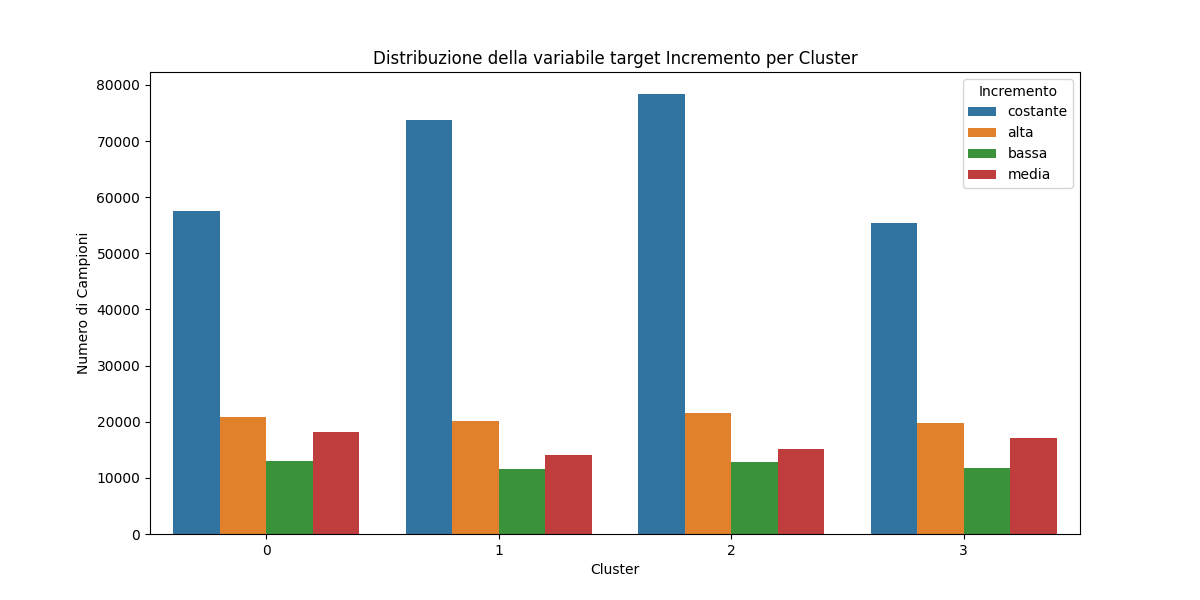
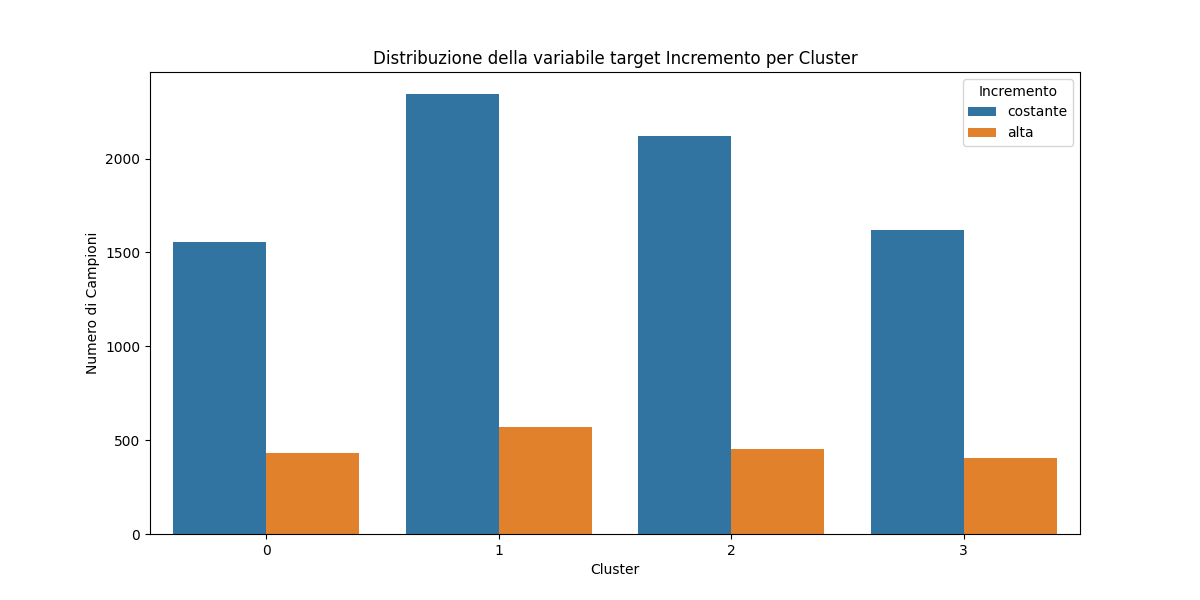
Normalizzazione dell'indice di Silhouette

diff --git a/clustering/clustering_metrics.py b/clustering/clustering_metrics.py
@@ -1,20 +1,33 @@
 import os
 from matplotlib import pyplot as plt
 import seaborn as sns
-from sklearn.metrics import silhouette_score
+from sklearn.metrics import silhouette_score, silhouette_samples
+import numpy as np
 
 
 def compute_silhouette_score(encoded_features, labels):
     """
-    Calcola e restituisce il Silhouette Score per il clustering effettuato.
+    Calcola e restituisce il Silhouette Score per il clustering effettuato,
+    normalizzato nel range [0, 1].
 
     :param encoded_features: Array di feature codificate (input del clustering)
     :param labels: Etichette dei cluster generate dal modello K-Means
-    :return: Valore del Silhouette Score
+    :return: Valore normalizzato del Silhouette Score
     """
-    score = silhouette_score(encoded_features, labels)
-    print(f"Silhouette Score: {score}")
-    return score
+    # Calcola i valori del silhouette per ciascun campione
+    silhouette_values = silhouette_samples(encoded_features, labels)
+
+    # Normalizza i valori del silhouette nel range [0, 1]
+    normalized_silhouette_values = (silhouette_values - silhouette_values.min()) / (
+                silhouette_values.max() - silhouette_values.min())
+
+    # Calcola il silhouette score medio normalizzato
+    normalized_silhouette_score = np.mean(normalized_silhouette_values)
+
+    print(f"Silhouette Score normalizzato: {normalized_silhouette_score}")
+
+    return normalized_silhouette_score
+
 
 def compute_purity(df, target_column):
     """
@@ -86,8 +99,10 @@ def compute_all_metrics(df, encoded_features, labels):
     # calcolo la purezza di ogni cluster e la purezza media del clustering
     print("\nCalcolo della purezza di ciascun cluster e della purezza complessiva:")
     cluster_purity, overall_purity = compute_purity(df, 'incremento')
+
+    print("\nCalcolo dell'indice di Silhouette... Attendi...:")
     score = compute_silhouette_score(encoded_features,labels)
 
-    return cluster_purity, overall_purity, score
+    return cluster_purity, overall_purity
 
 

diff --git a/feature_extraction/extract_increment.py b/feature_extraction/extract_increment.py
@@ -75,11 +75,11 @@ def classifica_incremento(percentuale):
     Returns:
     str: La classificazione dell'incremento ('alta', 'media', 'costante', 'bassa').
     """
-    if percentuale > 78:
+    if percentuale > 78.8:
         return 'alta'
-    elif 38 < percentuale <= 78:
+    elif 35 < percentuale <= 78.8:
         return 'media'
-    elif 10 <= percentuale <= 38:
+    elif 10 <= percentuale <= 35:
         return 'bassa'
     elif percentuale < 9:
         return 'costante'

diff --git a/clustering/clustering_execution.py b/clustering/clustering_execution.py
@@ -100,7 +100,7 @@ def transform_features(df, preprocessor):
     :return: DataFrame trasformato, array di feature codificate, nomi delle feature
     """
     # Trasformazione delle feature
-    encoded_features = preprocessor.fit_transform(df.drop(['incremento'], axis=1))
+    encoded_features = preprocessor.fit_transform(df)
 
     # Ottieni i nomi delle feature trasformate
     feature_names = preprocessor.get_feature_names_out()

diff --git a/run.py b/run.py
@@ -15,7 +15,7 @@ pd.set_option('display.expand_frame_repr', False)  # Non espande il DataFrame su
 file_path = 'datasets/challenge_campus_biomedico_2024.parquet'
 df = pd.read_parquet(file_path)
 
-#df = df.head(10000)
+df = df.head(10000)
 
 # Visualizzazione del numero di righe e colonne del dataset
 num_rows, num_columns = df.shape
